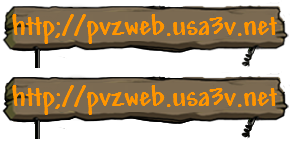
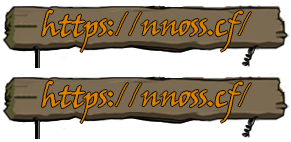
2.8
2.8

diff --git a/全部游戏/yxmb/4/js/CZombie.js b/全部游戏/yxmb/4/js/CZombie.js
@@ -2016,7 +2016,7 @@ oSubZombie = InheritO(oSnorkelZombie, {
     beAttackedPointL: 140,
     beAttackedPointR: 290,
     BookHandBack: 4.9,
-    Produce: '强劲有力的机械潜水艇，可以在水中躲过大多数攻击。<p>韧性：<font color="#FF0000">极高</font><br>特点：<font color="#FF0000">潜入水底以避免遭到攻击<br>只在水池关卡出现</font></p>这是由作者僵尸亲自打造的无敌潜水艇,不要妄想击碎他，他的猛烈进攻，只会让你的植物死得更快！。',
+    Produce: '强劲有力的机械潜水艇，可以在水中躲过大多数攻击。<p>韧性：<font color="#FF0000">极高</font><br>特点：<font color="#FF0000">潜入水底以避免遭到攻击<br>只在水池关卡出现</font></p>这是由僵王博士亲自打造的无敌潜水艇,不要妄想击碎他，他的猛烈进攻，只会让你的植物死得更快！。',
     PicArr: (function() {
         var a = "images/Zombies/SubZombie/";
         return ["images/Card/Zombies/SubZombie.png", a + "0.gif", a + "Walk1.gif", a + "Walk2.gif", a + "1.gif", a + "Attack.gif", a + "Head.gif" + $Random, a + "Die.gif" + $Random, a + "Jump.gif" + $Random, a + "Risk.gif" + $Random, a + "Sink.gif" + $Random]
@@ -3569,7 +3569,7 @@ oEmperor = InheritO(oCZombie, {
 }),
 oWJY = InheritO(oEunZombie, {
     EName: "oWJY",
-    CName: "作者僵尸",
+    CName: "NNO僵尸",
     HP: 17000,
     OrnHP: 10000,
     lvl: 8,
@@ -3581,11 +3581,11 @@ oWJY = InheritO(oEunZombie, {
         var a = "images/Zombies/WJY/";
         return ["images/Card/Zombies/WJY.png", a + "0.gif", a + "HeadWalk1.gif", a + "HeadAttack1.gif", a + "LostHeadWalk1.gif", a + "LostHeadAttack1.gif", a + "HeadWalk0.gif", a + "HeadAttack0.gif", a + "LostHeadWalk0.gif", a + "LostHeadAttack0.gif", a + "Head.gif" + $Random, a + "Die.gif" + $Random, "images/Zombies/BoomDie.gif" + $Random, a + "LostNewspaper.gif", a + "1.gif"]
     })(),
-    Produce: '新一代僵王博士登场。<p>体力：<font color="#FF0000">不死之身</font></p>喂！你怎么会在出现在游戏里？我总会听到有玩家这么问。嗯，这都要怪一个叫严启伦的家伙。'
+    Produce: '新一代僵王博士登场。<p>体力：<font color="#FF0000">不死之身</font></p>喂！你怎么会在出现在游戏里？我总会听到有玩家这么问。我只想说：“要你管！”'
 });
 oWJY1 = InheritO(oDuckyTubeZombie1, {
     EName: "oWJY1",
-    CName: "作者僵尸-水",
+    CName: "NNO僵尸-水",
     OSpeed: 0.1,
     Speed: 0.1,
     HP: 20000,

diff --git a/全部游戏/yxmb/4/index.html b/全部游戏/yxmb/4/index.html
@@ -1,6 +1,6 @@
 <html>
 <head>
-    <title>NewPlantsVS.ZombiesJs</title>
+    <title>新·植物大战僵尸终极版</title>
     <link rel="stylesheet" href="UI.css">
     <body id="dBody" topmargin="0" leftmargin="0" oncontextmenu="return false" ondragstart="return false" onselectstart="return false">
     <meta http-equiv="Content-Type" content="text/html; charset=utf-8">
@@ -44,7 +44,7 @@
 		<div class="mini" onmouseover="this.style.backgroundPosition='bottom';" onmouseout="this.style.backgroundPosition='top'" onclick="ShowMiniGame()"></div>
 		<div style="position:absolute;width:289px;height:127px;left:480px;top:307px;background:url(images/interface/SelectorScreen_Shadow_Challenge.png)"></div>
 		<div class="riddle" onmouseover="this.style.backgroundPosition='bottom';" onmouseout="this.style.backgroundPosition='top'" onclick="ShowRiddleGame()"></div>
-		<div class="Sunflower_trophy"><script>document.write('<img onclick="PlayAudio(\'buttonclick\');alert(\'新植物大战僵尸js\\n原作：lonelystar\\n制作单位：江南游戏开发社\\n开发人员：PAK向日葵（程序关卡设计）疯狂阳光Bean（美术指导、设计）\\n技术帮扶：Mr_KhrisTele\\n图片、音乐版权：popcap、部分来自网络搜集\\n鸣谢&感谢：彩色奢望、15574587513sh、陈思行大王、筱岚君、56743x、徐昊、四二fourtwo以及全体在游戏开发社参加内部测试的人员\\n感谢组织：pvz2js、pvz2pak、pvz2素材吧、pvz2科研部门\\n现开发人员+：Enderexplain\')" title="制作人" alt="3" src="images/interface/Sunflower_trophy32.png">')</script></div>
+		<div class="Sunflower_trophy"><script>document.write('<img onclick="PlayAudio(\'buttonclick\');alert(\'新·植物大战僵尸终极版\\nN2O INTERACTIVE ENTERTAINMENT\\n制作单位：N2O INTERACTIVE ENTERTAINMENT修改制作\\n原作来源于PopCap\\n开源来自江南游戏\\n官方网址:https://nnoss.cf/\\nNNO官方:https://www.nnoss.tk/\')" title="制作人" alt="3" src="images/interface/Sunflower_trophy32.png">')</script></div>
 		<div class="handbook" onmouseover="this.style.backgroundPosition='bottom'" onmouseout="this.style.backgroundPosition='top'" onclick="ViewHandBook()"></div>
 		<div id="ZombieHand"></div>
 		<div id="dNameDiv0">

diff --git a/全部游戏/yxmb/4/js/Cfunction.js b/全部游戏/yxmb/4/js/Cfunction.js
@@ -1981,8 +1981,8 @@ SelectModal = function(g) {
     LoadLvl(g)
 },
 GotoAuthorWebsite = function() {
-    alert("江南游戏开发社\n官方网址:http://pvzweb.usa3v.net \n官方QQ群:399624322\n官方邮箱:2583727181@qq.com\n感谢您对本游戏的支持！");
-   alert("现在由Enderexplain开源 \n我的QQ:1509095749\n我也感谢您对本游戏的支持！");
+    alert("N2O INTERACTIVE ENTERTAINMENT修改制作\n官方网址:https://nnoss.cf/ \nNNO官方:https://www.nnoss.tk/\n官方邮箱:liuqirui123@outlook.com\n感谢您对本游戏的支持！");
+   alert("原作来源于PopCap \n开源来自江南游戏\n江南游戏也感谢您对本游戏的支持！");
     return
 },
 InitGame = function() {
@@ -1990,7 +1990,7 @@ InitGame = function() {
     c = $User.Server,
     b = c.List,
     a = $("dProcess"); ! $("dText1") && a.insertBefore(NewEle("dText1", "div", 0, {
-        innerHTML: '<span style="line-height:23px;font-size:15px;font-family:&#x9ED1;&#x4F53;;color:#F60;top:32px">欢迎体验<span style="font-family:Verdana;font-weight:700">新版植物大战僵尸JS</span>,程序是玩家自制,与任何盈利公司无关。<span style="font-family:Verdana;font-weight:700">LonelyStar与江南游戏开发社</span>保留对该程序版权所有,游戏题材、素材、音效归Popcap Games，Electronic Arts所有，个别背景音乐来源免费音乐网站。如您需要转载，请保留以上版权说明，不然视盗版处理。</span>'
+        innerHTML: '<span style="line-height:23px;font-size:15px;font-family:&#x9ED1;&#x4F53;;color:#F60;top:32px">欢迎体验<span style="font-family:Verdana;font-weight:700">新·植物大战僵尸终极版</span>,程序是公益自制,与任何盈利公司无关。<span style="font-family:Verdana;font-weight:700">N2O INTERACTIVE ENTERTAINMENT</span>仅为修改，游戏题材、素材、音效归Popcap Games，Electronic Arts所有，个别背景音乐来源免费音乐网站。</span>'
     },
     0), a.firstChild);
     LoadLvl()

diff --git a/全部游戏/yxmb/4/index2.html b/全部游戏/yxmb/4/index2.html
@@ -44,7 +44,7 @@
 		<div class="mini" onmouseover="this.style.backgroundPosition='bottom';" onmouseout="this.style.backgroundPosition='top'" onclick="ShowMiniGame()"></div>
 		<div style="position:absolute;width:289px;height:127px;left:480px;top:307px;background:url(images/interface/SelectorScreen_Shadow_Challenge.png)"></div>
 		<div class="riddle" onmouseover="this.style.backgroundPosition='bottom';" onmouseout="this.style.backgroundPosition='top'" onclick="ShowRiddleGame()"></div>
-		<div class="Sunflower_trophy"><script>document.write('<img onclick="PlayAudio(\'buttonclick\');alert(\'新植物大战僵尸js\\n原作：lonelystar\\n制作单位：江南游戏开发社\\n开发人员：PAK向日葵（程序关卡设计）疯狂阳光Bean（美术指导、设计）\\n技术帮扶：Mr_KhrisTele\\n图片、音乐版权：popcap、部分来自网络搜集\\n鸣谢&感谢：彩色奢望、15574587513sh、陈思行大王、筱岚君、56743x、徐昊、四二fourtwo以及全体在游戏开发社参加内部测试的人员\\n感谢组织：pvz2js、pvz2pak、pvz2素材吧、pvz2科研部门\\n现开发人员+：Enderexplain\')" title="制作人" alt="3" src="images/interface/Sunflower_trophy32.png">')</script></div>
+		<div class="Sunflower_trophy"><script>document.write('<img onclick="PlayAudio(\'buttonclick\');alert(\'新·植物大战僵尸终极版\\nN2O INTERACTIVE ENTERTAINMENT\\n制作单位：N2O INTERACTIVE ENTERTAINMENT修改制作\\n原作来源于PopCap\\n开源来自江南游戏\\n官方网址:https://nnoss.cf/\\nNNO官方:https://www.nnoss.tk/\')" title="制作人" alt="3" src="images/interface/Sunflower_trophy32.png">')</script></div>
 		<div class="handbook" onmouseover="this.style.backgroundPosition='bottom'" onmouseout="this.style.backgroundPosition='top'" onclick="ViewHandBook()"></div>
 		<div id="ZombieHand"></div>
 		<div id="dNameDiv0">

diff --git a/全部游戏/link/0.html b/全部游戏/link/0.html
@@ -25,7 +25,7 @@
 <div><a target="right" href="../yxmb/1/index.html">
 <div class="item"><div class="logo">
 <img src="../images/y1.png" alt=" Coding"> 维京战争</div>
-<div class="desc">超好玩的卡片战争游戏（小星汉化）</div></div></a>
+<div class="desc">超好玩的卡片战争游戏</div></div></a>
 
 <div><a target="right" href="../yxmb/超级叠叠乐/index.html">
 <div class="item"><div class="logo">
@@ -275,7 +275,7 @@
 <div><a target="right" href="../yxmb/46/index.html">
 <div class="item"><div class="logo">
 <img src="../images/y46.png" alt=" Coding"> 3D飞机躲避障</div>
-<div class="desc">3D飞机躲避障碍游戏，鼠标控制飞行的飞机，躲避障碍（小星汉化）</div></div></a>
+<div class="desc">3D飞机躲避障碍游戏，鼠标控制飞行的飞机，躲避障碍</div></div></a>
 
 <div><a target="right" href="../yxmb/47/index.html">
 <div class="item"><div class="logo">

diff --git a/全部游戏/yxmb/50/index.html b/全部游戏/yxmb/50/index.html
@@ -107,7 +107,7 @@
 			function onShareComplete(res) {
                 if (localStorage.myuid && myData.score != undefined) {
                     setTimeout(function(){
-                        if (confirm("要将成绩提交到星益小游戏平台排行榜吗？")) {
+                        if (confirm("要将成绩提交到小游戏平台排行榜吗？")) {
                             window.location = "https://nnoss.cf/" + myData.gameid + "&uid=" + localStorage.myuid + "&score=" + myData.score + "&scorename=" + encodeURIComponent(myData.scoreName);
                         }
                         else {

diff --git a/全部游戏/yxmb/36/index.html b/全部游戏/yxmb/36/index.html
@@ -49,7 +49,7 @@
     <canvas height="240" width="320" id="canvas" style="display: block;"></canvas>
     <div id="msg" style="position:relative;display: block; opacity: 1;bottom:50px;"></div>
   </div>
-  <div  style="position:relative; display: block; margin: 0px auto;bottom:120px;z-index:20000"> 星益博客：blog.96xy.cn</div>
+  <div  style="position:relative; display: block; margin: 0px auto;bottom:120px;z-index:20000"> 更多尽在：nnoss.cf</div>
   <script type="text/javascript" src="9.js"></script> 
 </DIV>
 </body>

diff --git a/全部游戏/link/5.html b/全部游戏/link/5.html
@@ -55,7 +55,7 @@
 <div><a target="right" href="../yxmb/46/index.html">
 <div class="item"><div class="logo">
 <img src="../images/y46.png" alt=" Coding"> 3D飞机躲避障</div>
-<div class="desc">3D飞机躲避障碍游戏，鼠标控制飞行的飞机，躲避障碍（小星汉化）</div></div></a>
+<div class="desc">3D飞机躲避障碍游戏，鼠标控制飞行的飞机，躲避障碍</div></div></a>
 
 <div><a target="right" href="../yxmb/47/index.html">
 <div class="item"><div class="logo">

diff --git a/全部游戏/yxmb/49/index.html b/全部游戏/yxmb/49/index.html
@@ -131,7 +131,7 @@
 			function onShareComplete(res) {
                 if (localStorage.myuid && myData.score != undefined) {
                     setTimeout(function(){
-                        if (confirm("要将成绩提交到星益云小游戏平台排行榜吗？")) {
+                        if (confirm("要将成绩提交到小游戏平台排行榜吗？")) {
                             window.location = "https://nnoss.cf/";
                         }
                         else {

diff --git a/全部游戏/yxmb/71/index.html b/全部游戏/yxmb/71/index.html
@@ -44,8 +44,8 @@
 		</div>
 	</div>
 </div>
-<div class="top_msg align_c color_ffc">（星益小游戏平台）猜成语</div>
-<div class="bottom_msg align_c color_ffc">（下载更多源码）星益博客：blog.96xy.cn</div>
+<div class="top_msg align_c color_ffc">猜成语</div>
+<div class="bottom_msg align_c color_ffc">更多尽在：nnoss.cf</div>
 
 <script type="text/javascript" src="js/jquery.min.js"></script>
 <script type="text/javascript" src="js/idiom.js"></script>

diff --git a/全部游戏/yxmb/35/index.html b/全部游戏/yxmb/35/index.html
@@ -18,7 +18,7 @@
 <div class="splash"></div>
 <div class="container">
   <div class="start-game game-full-flex" id="start-game">
-    <div class="start-game-top">【星益博客：blog.96xy.cn】</div>
+    <div class="start-game-top">更多尽在：nnoss.cf</div>
     <div class="logo-holder">
       <p class="logo"> <span>星</span> <span>益</span> <span>小</span> <span>游</span> <span>戏</span></p>
       <a class="play-button" href="#" onClick="game.start()">开始</a>

diff --git a/全部游戏/link/6.html b/全部游戏/link/6.html
@@ -9,7 +9,7 @@
 <div><a target="right" href="../yxmb/1/index.html">
 <div class="item"><div class="logo">
 <img src="../images/y1.png" alt=" Coding"> 维京战争</div>
-<div class="desc">超好玩的卡片战争游戏（小星汉化）</div></div></a>
+<div class="desc">超好玩的卡片战争游戏</div></div></a>
 
 <div><a target="right" href="../yxmb/双人井字棋/index.html">
 <div class="item"><div class="logo">
